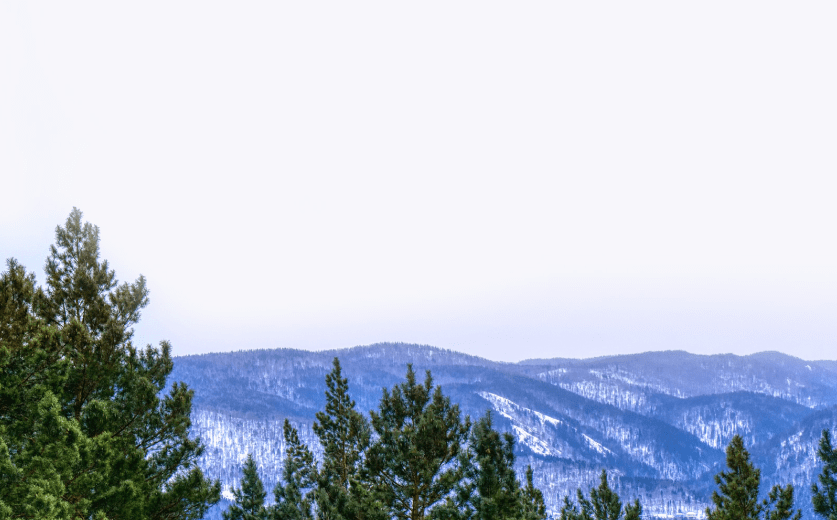
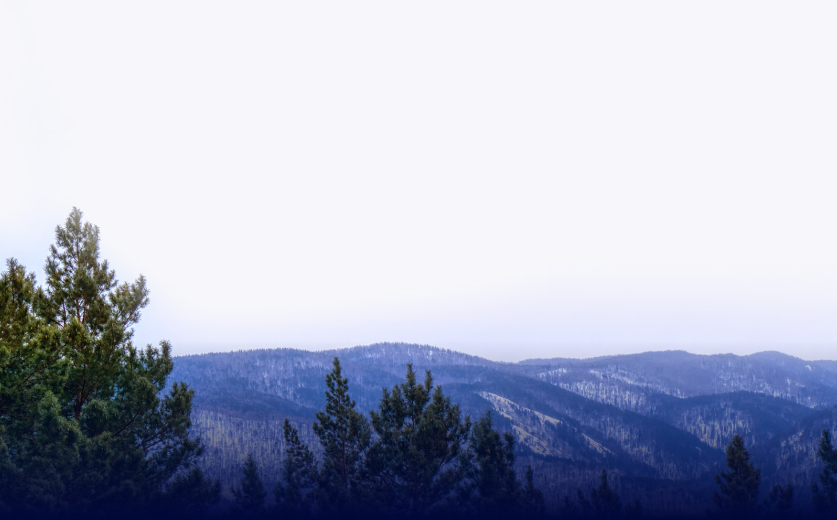
1

Changed region(s): [[0.0, 0.6769, 1.0, 1.0]]

diff --git a/css/Style.min.css b/css/Style.min.css
@@ -1581,14 +1581,11 @@ span.comments_num::after {
 	overflow-x:hidden;
 }
 
-.backImg{
-    width: 836px;
-}
-
 .points_of_growth_header{
     height: 520px;
     position: absolute;
 }
+
 
 .egupH3 {
     /* Спецпроект */
@@ -1670,16 +1667,6 @@ span.comments_num::after {
         transform: scale(1.7)
     }
   }
-
-.points_of_growth_header-tone{
-    position: absolute;
-    width: 837px;
-    height: 180px;
-    left: 0px;
-    top: 340px;
-
-    background: linear-gradient(180deg, rgba(0, 8, 57, 0) 0%, #000839 130%);
-}
 
 .points_of_growth_body {
     display: flex;
@@ -1862,7 +1849,9 @@ filter: drop-shadow(0px 100px 80px rgba(0, 0, 0, 0.04)) drop-shadow(0px 41.7776p
 .egup_button_text,
 .egup_button_text:visited {
   text-decoration: none;
+  color: #fff;
 }
+
 .egup_button_text:hover {
     text-decoration: none;
     color: #fff;
@@ -1929,12 +1918,6 @@ flex-grow: 0;
     height: 3.65vw;
     left: 30.36vw;
     top: 11.53vw;
-}
-
-.points_of_growth_header-tone{
-    width: 64vw;
-    height: 13.14vw;
-    top: 26.6vw;
 }
 
 .points_of_growth_body {
@@ -2073,12 +2056,6 @@ font-size: 1vw;
     height: 5.48vw;
     left: 45.54vw;
     top: 17.3vw;
-}
-
-.points_of_growth_header-tone{
-    width: 97vw;
-    height: 19.71vw;
-    top: 40.6vw;
 }
 
 .points_of_growth_body {

diff --git a/index.html b/index.html
@@ -473,7 +473,6 @@
                                     <p class="egupH2">Красноярский край:</p>
                                     <p class="egupH1">точки роста</p>
                                     <div class="circle"></div>
-                                    <div class="points_of_growth_header-tone"></div>
                                 </div>
 
                                 <div class="points_of_growth_body">
